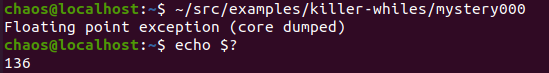
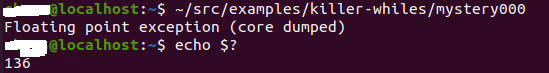
Made changes w.r.t some issues for images and some text

Changed region(s): [[0.0, 0.5479, 0.0929, 0.7945], [0.0, 0.0548, 0.0929, 0.2466]]

diff --git a/content/post/2022-09-01-analyzing-system-performance.md b/content/post/2022-09-01-analyzing-system-performance.md
@@ -41,9 +41,6 @@ Above numbers pertaining to CPU utilization means -
 
 #### Niceness
 It mainly indicates how happy a process is to give CPU cycles to other more high priority process i.e. how nice it is with others :) Allowed values range from -20 to 19
-
-<Book e.g. if required Pg 16>
-
 ### *mpstat*
 Its multi processor statistics tool tha can emit metrics per CPU. It is similar to _top_ but with load split separately for each processor.
 
@@ -94,7 +91,7 @@ Whenever OOM occurs below output can be seen
 
 [![RAM - ram-oomkil-bpfcc](https://www.dhaval-shah.com/images/wp-content/uploads/2022/09/ram-oomkil-bpfcc.png)](https://www.dhaval-shah.com/images/wp-content/uploads/2022/09/ram-oomkil-bpfcc.png)
 
-## Networking
+## Network
 With Distributed Systems, network plays a huge role in System Performance. Typically speaking network would mainly comprise of -
 1. Hardware - which would mainly include routers, NIC, switches etc
 2. Software - which would mainly include [OS](https://en.wikipedia.org/wiki/Operating_system) [kernel](https://en.wikipedia.org/wiki/Kernel_(operating_system)) that may comprise of device drivers, protocols etc.
@@ -130,9 +127,7 @@ Various options provided by Linux version -
 6. -n IP: IP datagram statistics
 7. -n EIP: IP error statistics
 
-[![Network - sar-tcp](https://www.dhaval-shah.com/images/wp-content/uploads/2022/09/network-sa-tcp.png)](https://www.dhaval-shah.com/images/wp-content/uploads/2022/09/network-sar-tcp.png)
-
-<- TBD---Table for metrics from https://learning.oreilly.com/library/view/systems-performance-2nd/9780136821694/ch10.xhtml#ch10lev6sec6 >
+[![Network - sar-tcp](https://www.dhaval-shah.com/images/wp-content/uploads/2022/09/network-sar-tcp.png)](https://www.dhaval-shah.com/images/wp-content/uploads/2022/09/network-sar-tcp.png)
 
 ### _tcptop_
 It is a tool that emits TCP throughput by host and its processes
@@ -141,7 +136,6 @@ It is a tool that emits TCP throughput by host and its processes
 
 - *RX_KB* : Received traffic in KB
 - *TX_KB* : Traffic sent in KB
-
 
 ## Disk I/O
 Disk I/O can have huge impact on system performance and this in turn may lead to high latency of application. A very common scenario that might lead to performance issues - System is waiting for Disk I/O to get completed and as a result CPU is idle due to blocking I/O operation
